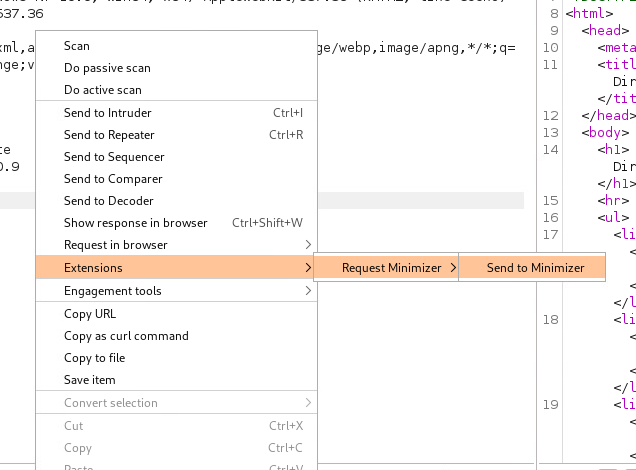
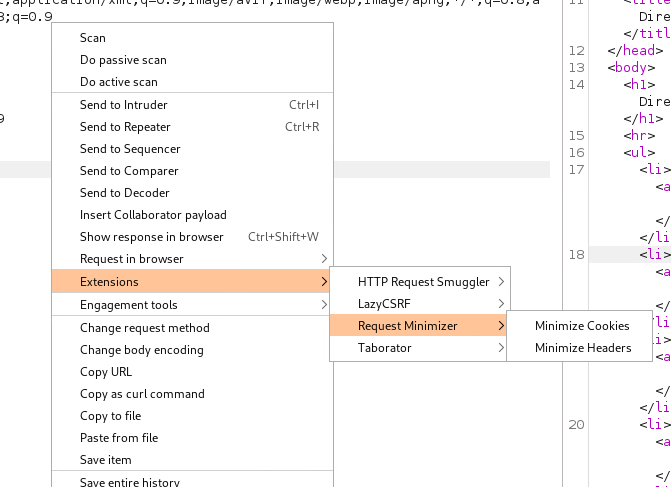
README update for cookie minimalization

diff --git a/README.md b/README.md
@@ -10,11 +10,13 @@ Building the extension is possible with gradle. All necessary files are included
 
 ## Usage
 
-Upon adding the extension into Burp Suite, Request Minimizer can be invoked by right clicking on request that we want to minimize and selecting it from the context menu. `Extensions`->`Request Minimizer`->`Minimize Headers`
+Upon adding the extension into Burp Suite, Request Minimizer can be invoked by right clicking on request that we want to minimize and selecting it from the context menu. `Extensions`->`Request Minimizer`
+
+Two options will be available, `Minimize Headers` and `Minimize Cookies`. 
 
 ![Context menu](./image/menu.png)
 
-The request on which has the context menu been invoked will be passed into the requestMinimizer class and after the minimalization process will be done, new UI windows with option to copy this request will appear.
+The request on which has the context menu been invoked will be passed into the corresponding requestMinimizer classes and after the minimalization process will be done, new UI window with option to copy this request will appear.
 
 ## To do 
 
